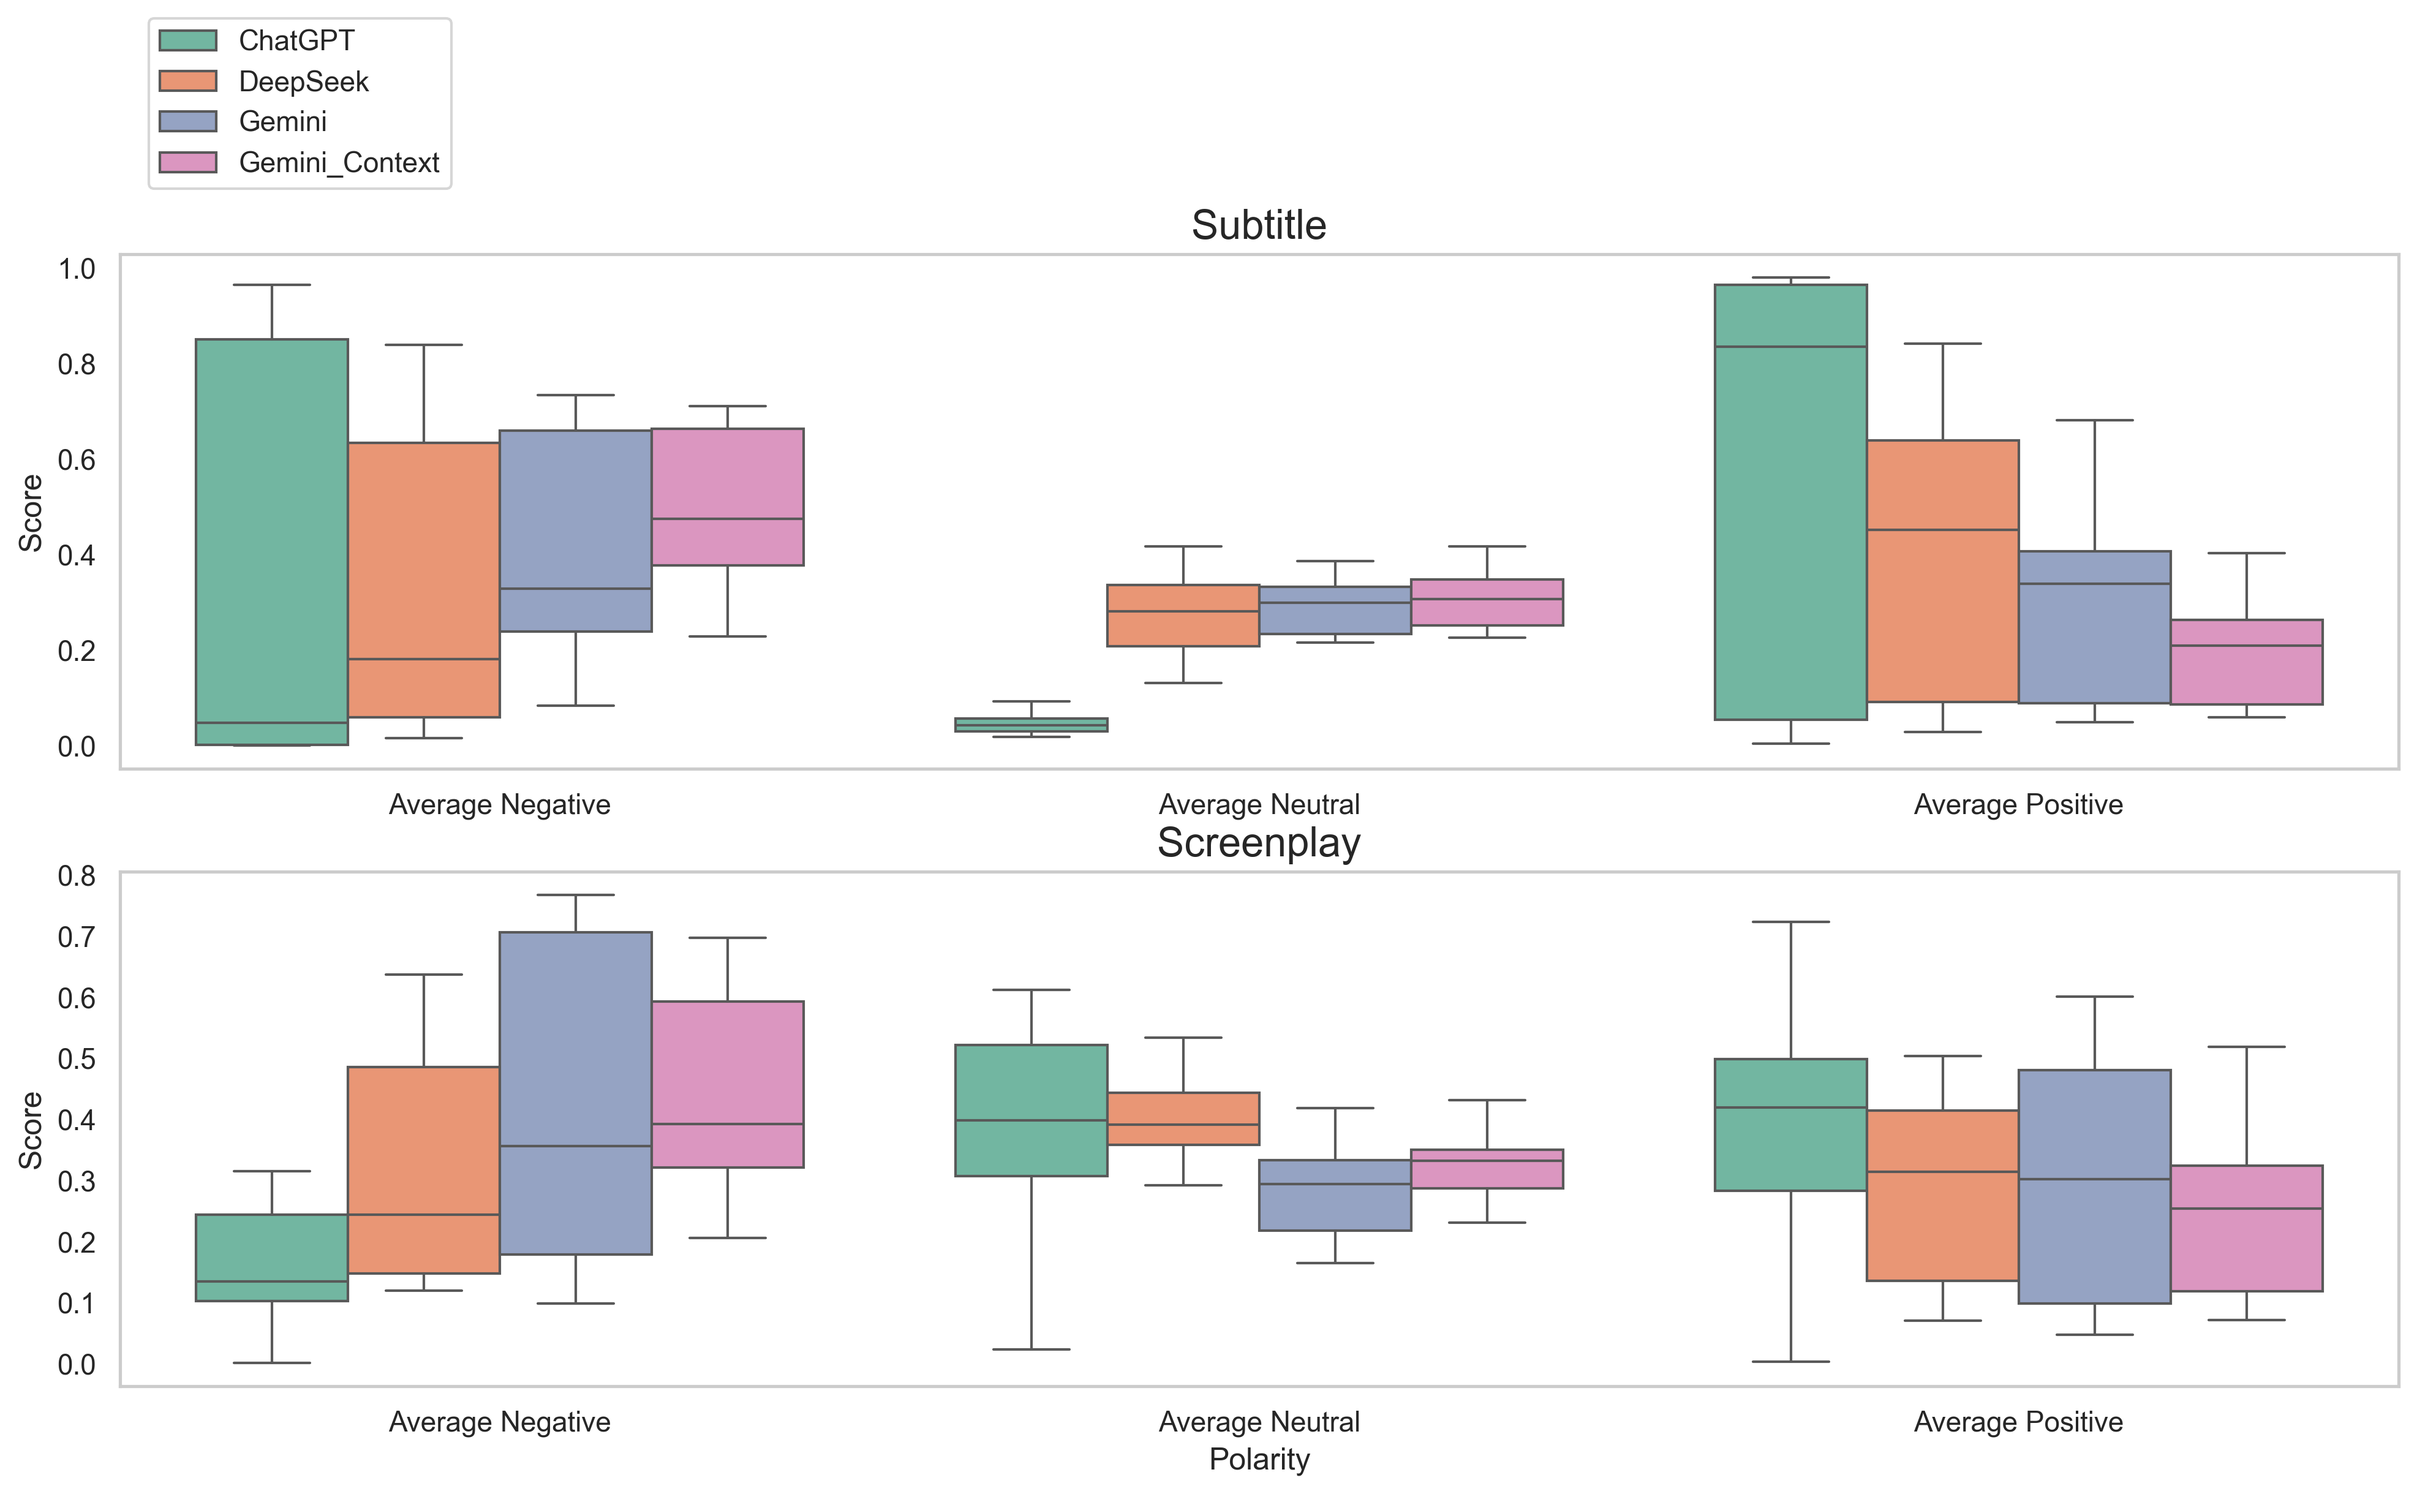
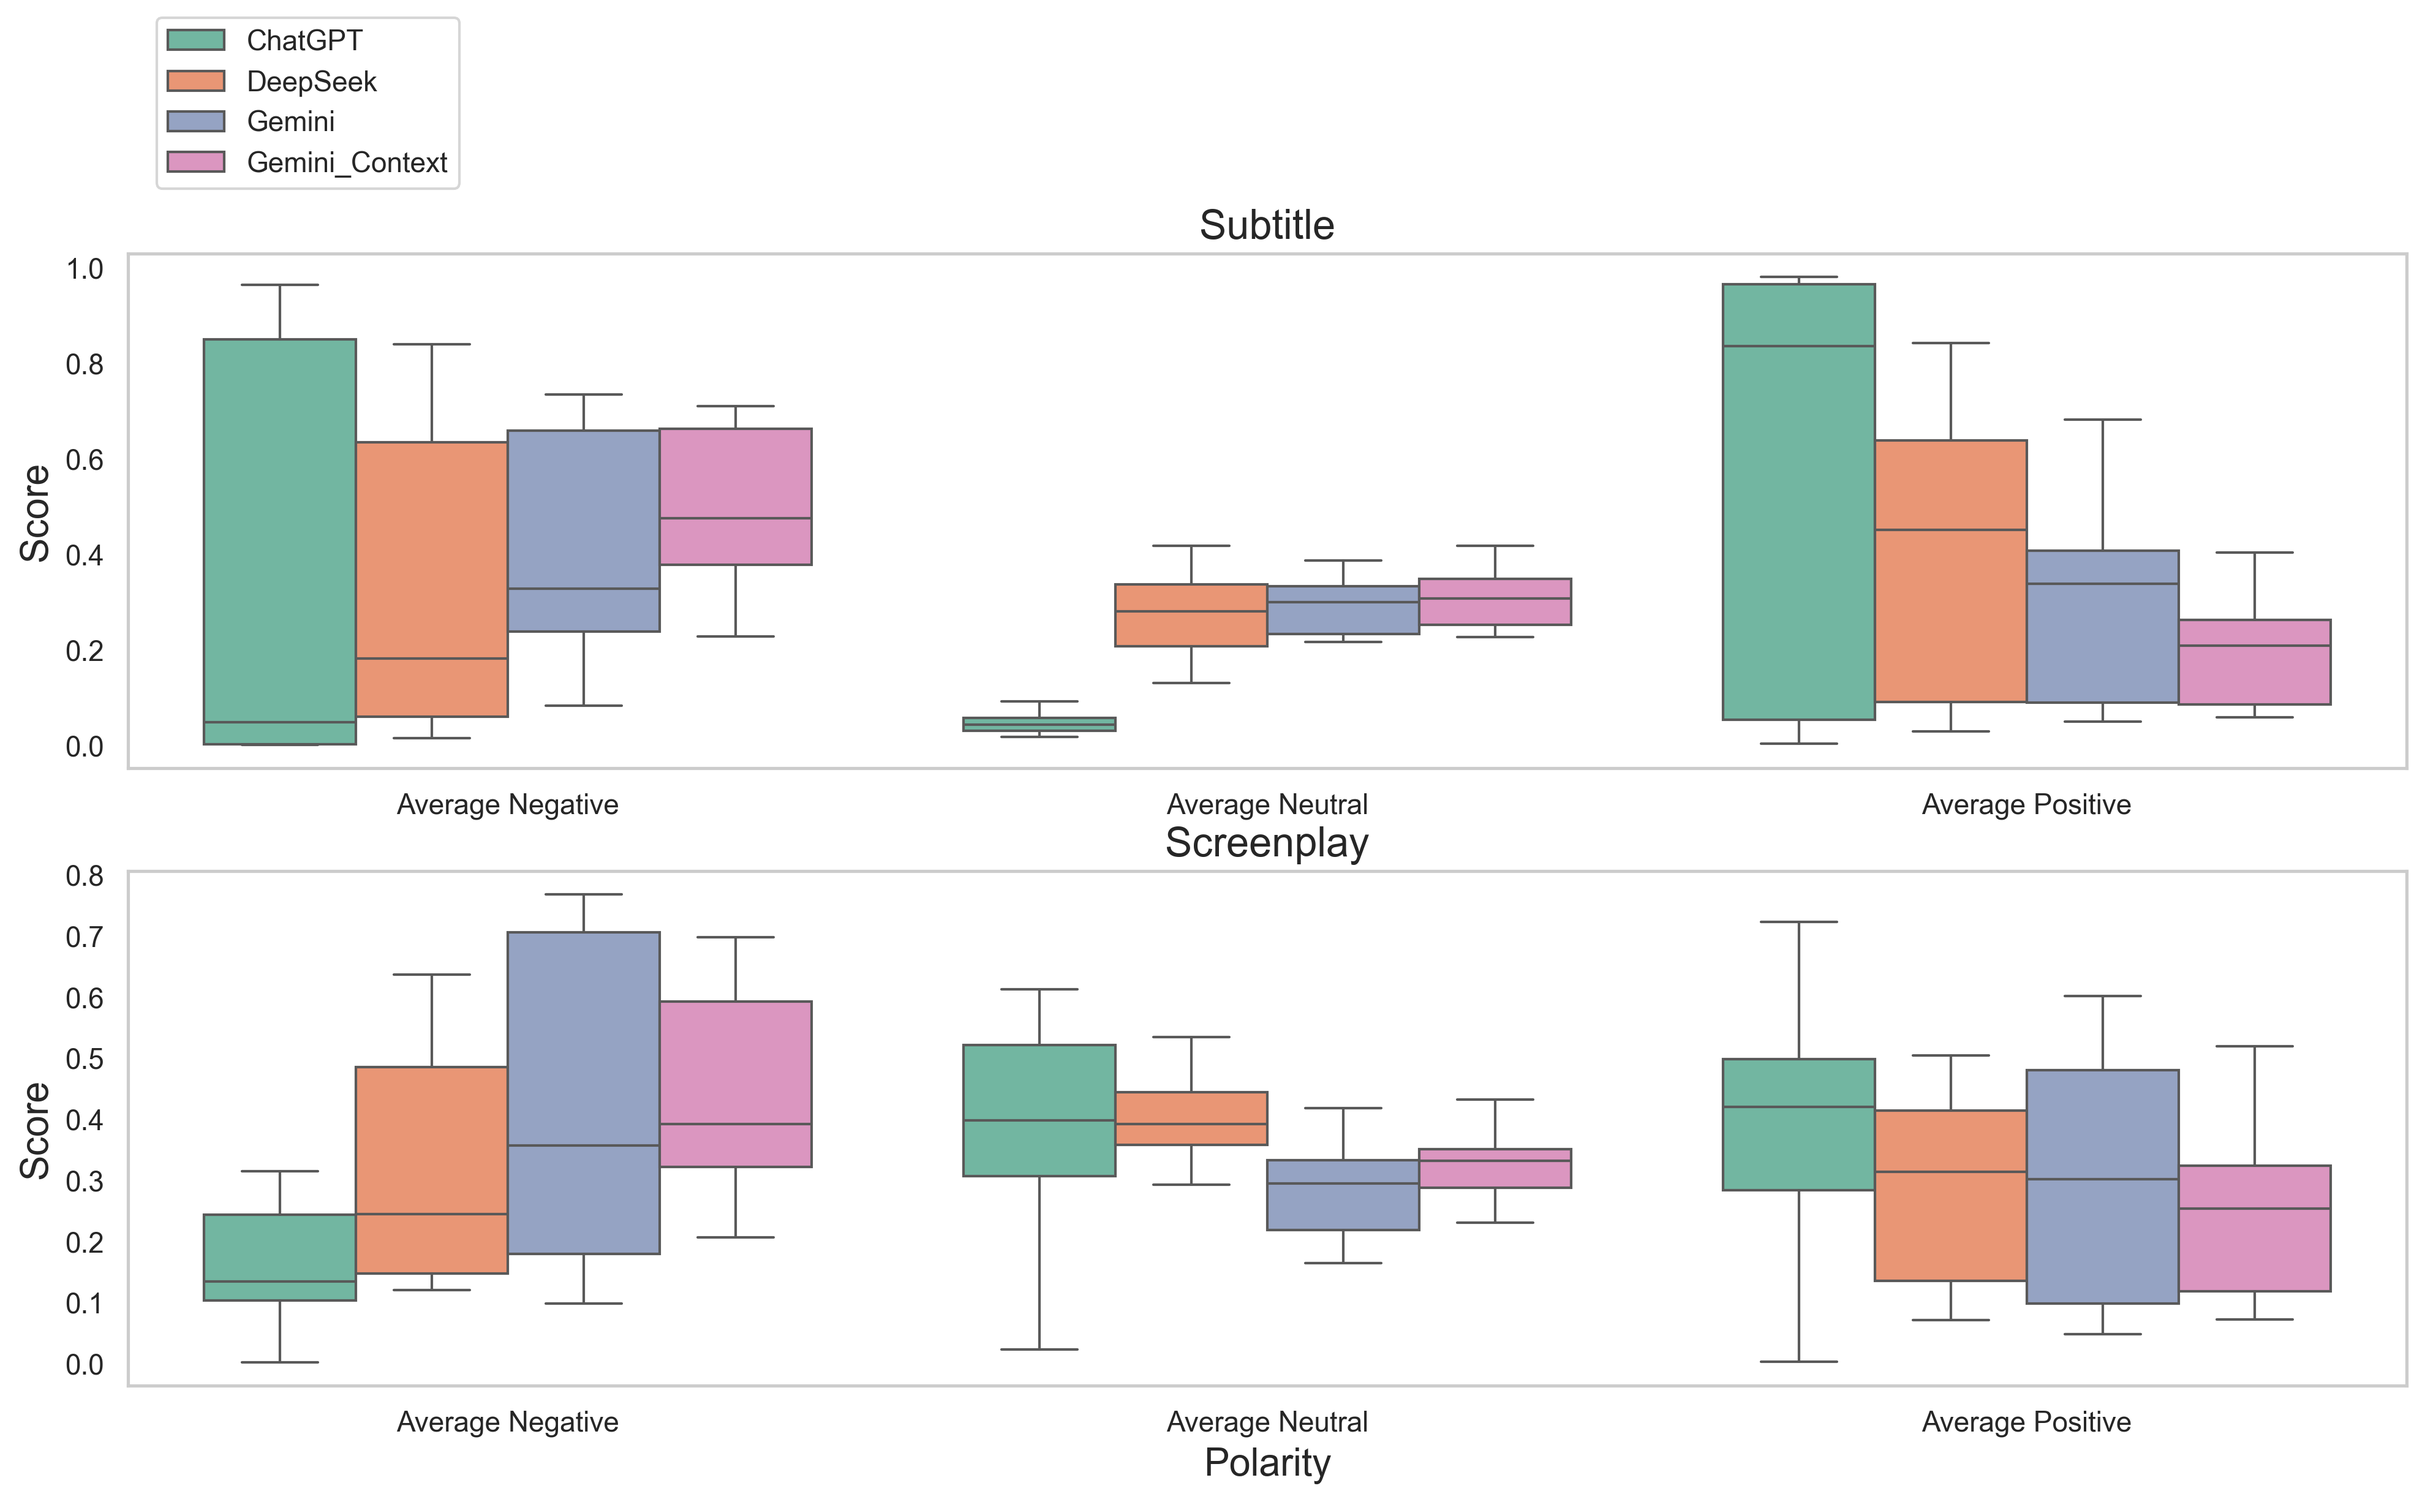
increase font size

diff --git a/visualization/polarity.py b/visualization/polarity.py
@@ -177,8 +177,8 @@ def generate_polarity_box_plots(ai_df, source_name='ai', ax=None):
 
     # ddding title and labels
     ax.set_title(f'{source_name}', fontsize=16)
-    ax.set_xlabel('Polarity', fontsize=12)
-    ax.set_ylabel('Score', fontsize=12)
+    ax.set_xlabel('Polarity', fontsize=15)
+    ax.set_ylabel('Score', fontsize=15)
 
     ax.grid(False)
 
